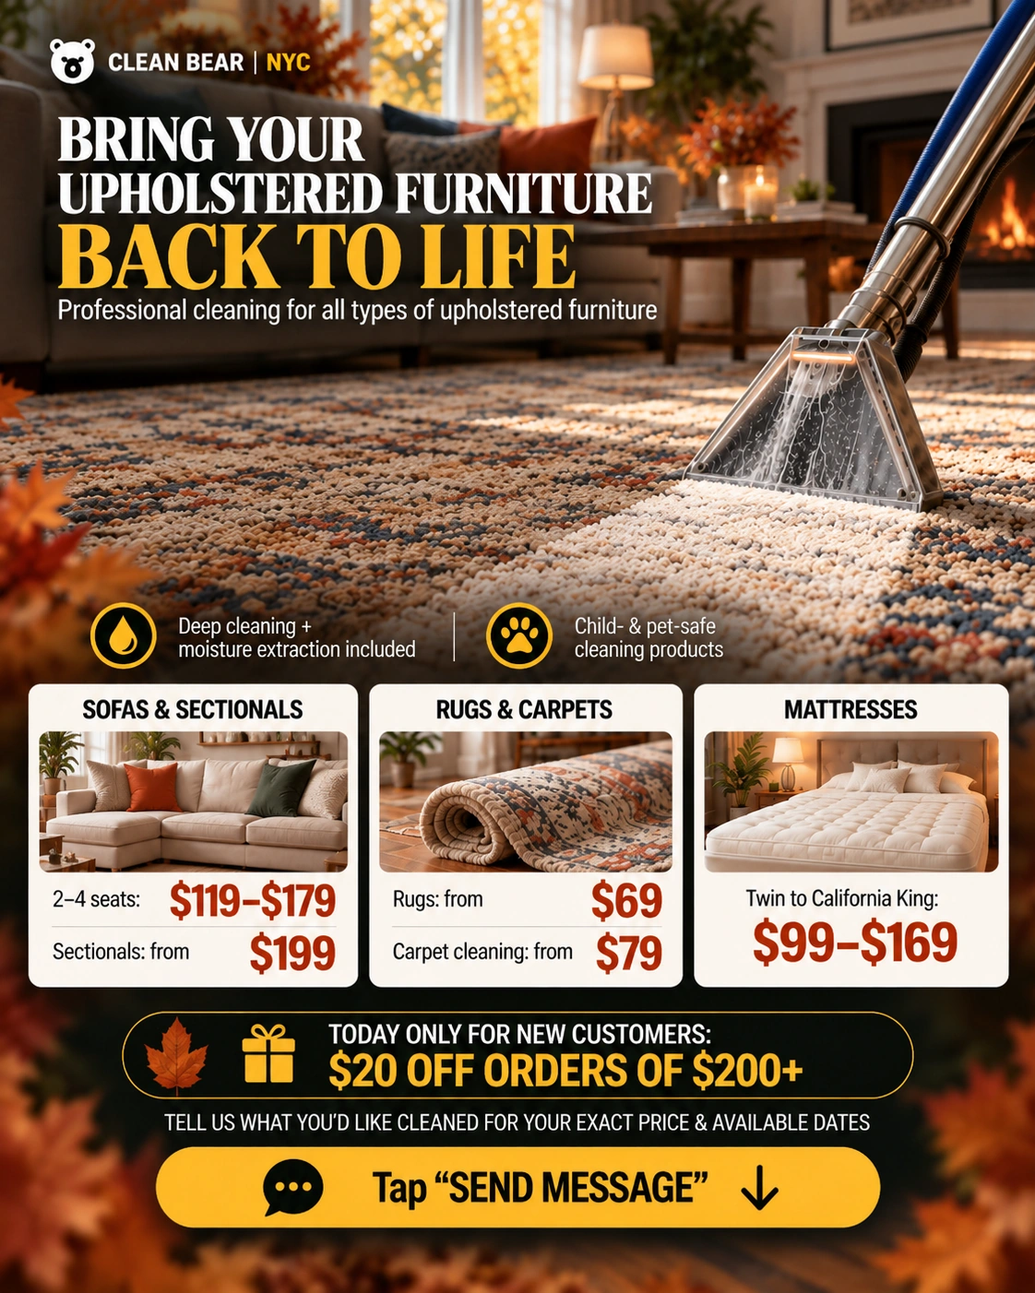
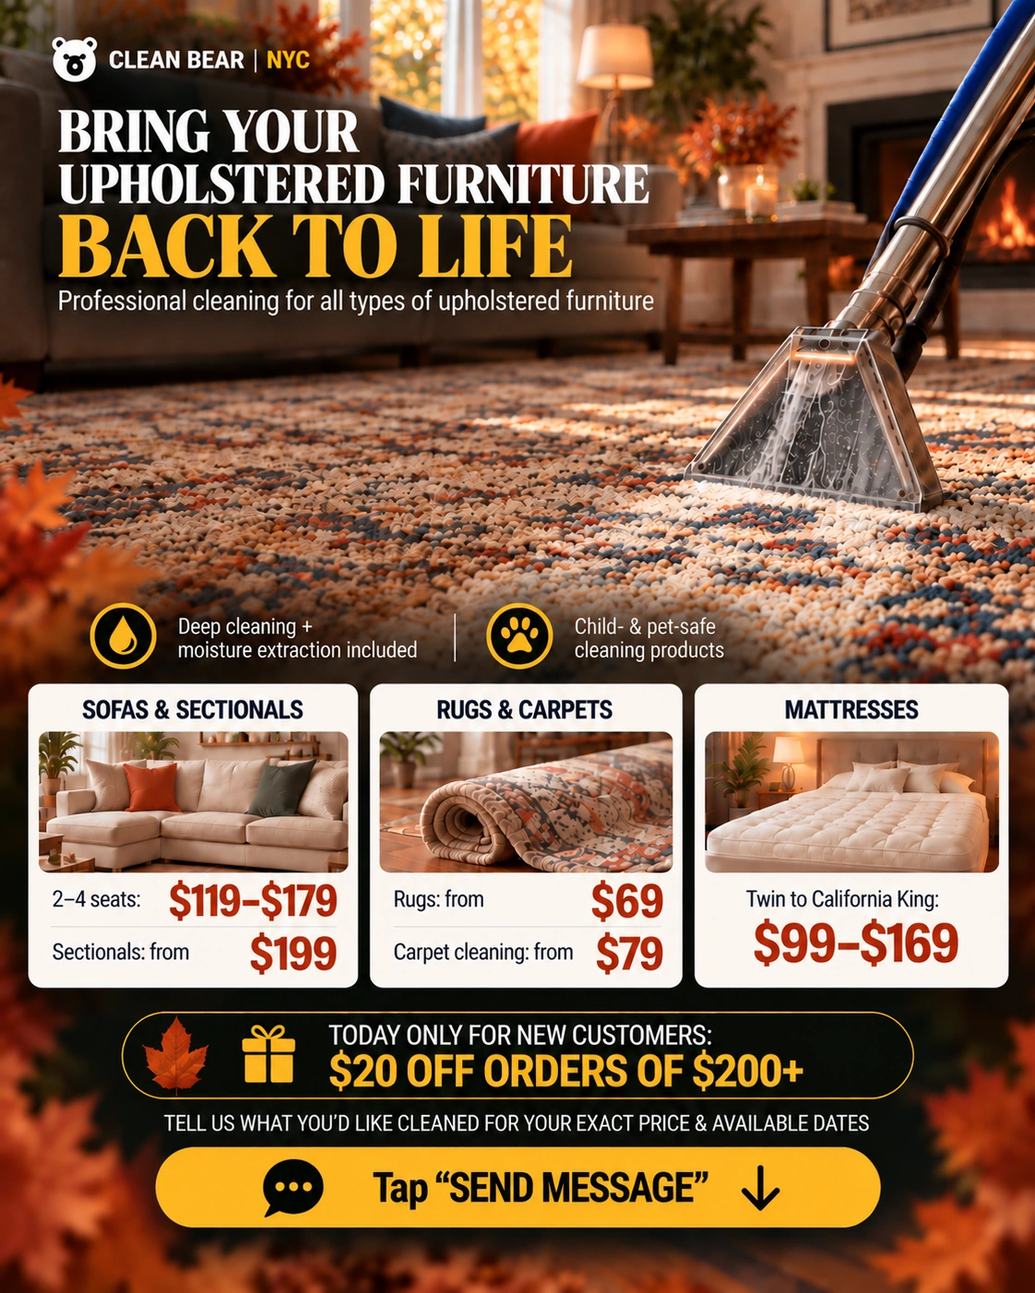
Replace upholstery creative and improve gallery browsing

diff --git a/cleaning-canada.html b/cleaning-canada.html
@@ -1228,6 +1228,10 @@ body.proofModalOpen{overflow:hidden}
 }
 .manualGallery::-webkit-scrollbar{display:none}
 .manualGallery:active{cursor:grabbing}
+.manualGallery{
+  overscroll-behavior-inline:contain;
+  touch-action:pan-x pan-y;
+}
 .manualGallery .loopTrack{
   animation:none!important;transform:none!important;will-change:auto!important
 }
@@ -1264,7 +1268,7 @@ body.proofModalOpen{overflow:hidden}
   object-fit:contain;border-radius:20px;box-shadow:0 20px 70px rgba(0,0,0,.3)
 }
 .galleryLightboxReview{
-  width:min(620px,78vw);aspect-ratio:280/364;
+  width:min(700px,82vw);aspect-ratio:280/364;
   background-image:url("assets/site/reviews-sprite.webp");
   background-size:400% 200%;background-repeat:no-repeat;
   border-radius:20px;box-shadow:0 20px 70px rgba(0,0,0,.3)
@@ -1298,7 +1302,7 @@ body.proofModalOpen{overflow:hidden}
     padding:8px;border-radius:20px
   }
   .galleryLightboxStage img{border-radius:14px}
-  .galleryLightboxReview{width:min(78vw,430px);border-radius:14px}
+  .galleryLightboxReview{width:min(86vw,500px);border-radius:14px}
   .galleryLightboxNav{width:36px;height:36px;font-size:17px}
   .galleryLightboxClose{right:10px;top:10px;width:38px;height:38px}
   .galleryLightboxCaption{font-size:8px;padding:8px 30px 2px}
@@ -1582,8 +1586,8 @@ body.proofModalOpen{overflow:hidden}
   </div>
   <div class="loopViewport creativeViewport manualGallery" data-gallery-viewport="creative">
     <div class="loopTrack creativeTrack">
-      <div class="loopGroup"><article class="creativeCard realCreative"><img src="assets/site/creatives/cleaning-toronto.webp" alt="Cleaning ad creative for Toronto" loading="lazy" decoding="async"><span class="creativeBadge">Cleaning Toronto</span></article><article class="creativeCard realCreative"><img src="assets/site/creatives/cleaning-calgary.webp" alt="Cleaning ad creative for Calgary" loading="lazy" decoding="async"><span class="creativeBadge">Cleaning Calgary</span></article><article class="creativeCard realCreative"><img src="https://cdn.openart.ai/openart-uploads/production/attachment-transfers/747fdd84dfbf1731e6a5cbb16cdd6e9aee8d5f793e122a1d1c8ec78463aa2c9d.png" alt="Upholstery cleaning ad creative for New York" loading="lazy" decoding="async"><span class="creativeBadge">Upholstery NYC</span></article><article class="creativeCard realCreative"><img src="assets/site/creatives/cleaning-recruitment.webp" alt="Cleaning recruitment ad creative" loading="lazy" decoding="async"><span class="creativeBadge">Cleaning Recruitment</span></article><article class="creativeCard realCreative"><img src="assets/site/creatives/plumbing-toronto.webp" alt="Plumbing ad creative for Toronto" loading="lazy" decoding="async"><span class="creativeBadge">Plumbing Toronto</span></article><article class="creativeCard realCreative"><img src="assets/site/creatives/hair-care-toronto.webp" alt="Hair care ad creative for Toronto" loading="lazy" decoding="async"><span class="creativeBadge">Hair Care Toronto</span></article><article class="creativeCard realCreative"><img src="assets/site/creatives/hair-extensions.webp" alt="Hair extensions ad creative" loading="lazy" decoding="async"><span class="creativeBadge">Hair Extensions</span></article><article class="creativeCard realCreative"><img src="assets/site/creatives/music-school.webp" alt="Online music school ad creative" loading="lazy" decoding="async"><span class="creativeBadge">Music School</span></article><article class="creativeCard realCreative"><img src="assets/site/creatives/aesthetic-clinic.webp" alt="Aesthetic clinic ad creative" loading="lazy" decoding="async"><span class="creativeBadge">Aesthetic Clinic</span></article><article class="creativeCard realCreative"><img src="assets/site/creatives/moving-berlin.webp" alt="Moving company ad creative for Berlin" loading="lazy" decoding="async"><span class="creativeBadge">Moving Berlin</span></article></div>
-      <div class="loopGroup" aria-hidden="true"><article class="creativeCard realCreative"><img src="assets/site/creatives/cleaning-toronto.webp" alt="Cleaning ad creative for Toronto" loading="lazy" decoding="async"><span class="creativeBadge">Cleaning Toronto</span></article><article class="creativeCard realCreative"><img src="assets/site/creatives/cleaning-calgary.webp" alt="Cleaning ad creative for Calgary" loading="lazy" decoding="async"><span class="creativeBadge">Cleaning Calgary</span></article><article class="creativeCard realCreative"><img src="https://cdn.openart.ai/openart-uploads/production/attachment-transfers/747fdd84dfbf1731e6a5cbb16cdd6e9aee8d5f793e122a1d1c8ec78463aa2c9d.png" alt="Upholstery cleaning ad creative for New York" loading="lazy" decoding="async"><span class="creativeBadge">Upholstery NYC</span></article><article class="creativeCard realCreative"><img src="assets/site/creatives/cleaning-recruitment.webp" alt="Cleaning recruitment ad creative" loading="lazy" decoding="async"><span class="creativeBadge">Cleaning Recruitment</span></article><article class="creativeCard realCreative"><img src="assets/site/creatives/plumbing-toronto.webp" alt="Plumbing ad creative for Toronto" loading="lazy" decoding="async"><span class="creativeBadge">Plumbing Toronto</span></article><article class="creativeCard realCreative"><img src="assets/site/creatives/hair-care-toronto.webp" alt="Hair care ad creative for Toronto" loading="lazy" decoding="async"><span class="creativeBadge">Hair Care Toronto</span></article><article class="creativeCard realCreative"><img src="assets/site/creatives/hair-extensions.webp" alt="Hair extensions ad creative" loading="lazy" decoding="async"><span class="creativeBadge">Hair Extensions</span></article><article class="creativeCard realCreative"><img src="assets/site/creatives/music-school.webp" alt="Online music school ad creative" loading="lazy" decoding="async"><span class="creativeBadge">Music School</span></article><article class="creativeCard realCreative"><img src="assets/site/creatives/aesthetic-clinic.webp" alt="Aesthetic clinic ad creative" loading="lazy" decoding="async"><span class="creativeBadge">Aesthetic Clinic</span></article><article class="creativeCard realCreative"><img src="assets/site/creatives/moving-berlin.webp" alt="Moving company ad creative for Berlin" loading="lazy" decoding="async"><span class="creativeBadge">Moving Berlin</span></article></div>
+      <div class="loopGroup"><article class="creativeCard realCreative"><img src="assets/site/creatives/cleaning-toronto.webp" alt="Cleaning ad creative for Toronto" loading="lazy" decoding="async"><span class="creativeBadge">Cleaning Toronto</span></article><article class="creativeCard realCreative"><img src="assets/site/creatives/cleaning-calgary.webp" alt="Cleaning ad creative for Calgary" loading="lazy" decoding="async"><span class="creativeBadge">Cleaning Calgary</span></article><article class="creativeCard realCreative"><img src="assets/site/creatives/upholstery-nyc.webp" alt="Upholstery cleaning ad creative for New York" loading="lazy" decoding="async"><span class="creativeBadge">Upholstery NYC</span></article><article class="creativeCard realCreative"><img src="assets/site/creatives/cleaning-recruitment.webp" alt="Cleaning recruitment ad creative" loading="lazy" decoding="async"><span class="creativeBadge">Cleaning Recruitment</span></article><article class="creativeCard realCreative"><img src="assets/site/creatives/plumbing-toronto.webp" alt="Plumbing ad creative for Toronto" loading="lazy" decoding="async"><span class="creativeBadge">Plumbing Toronto</span></article><article class="creativeCard realCreative"><img src="assets/site/creatives/hair-care-toronto.webp" alt="Hair care ad creative for Toronto" loading="lazy" decoding="async"><span class="creativeBadge">Hair Care Toronto</span></article><article class="creativeCard realCreative"><img src="assets/site/creatives/hair-extensions.webp" alt="Hair extensions ad creative" loading="lazy" decoding="async"><span class="creativeBadge">Hair Extensions</span></article><article class="creativeCard realCreative"><img src="assets/site/creatives/music-school.webp" alt="Online music school ad creative" loading="lazy" decoding="async"><span class="creativeBadge">Music School</span></article><article class="creativeCard realCreative"><img src="assets/site/creatives/aesthetic-clinic.webp" alt="Aesthetic clinic ad creative" loading="lazy" decoding="async"><span class="creativeBadge">Aesthetic Clinic</span></article><article class="creativeCard realCreative"><img src="assets/site/creatives/moving-berlin.webp" alt="Moving company ad creative for Berlin" loading="lazy" decoding="async"><span class="creativeBadge">Moving Berlin</span></article></div>
+      <div class="loopGroup" aria-hidden="true"><article class="creativeCard realCreative"><img src="assets/site/creatives/cleaning-toronto.webp" alt="Cleaning ad creative for Toronto" loading="lazy" decoding="async"><span class="creativeBadge">Cleaning Toronto</span></article><article class="creativeCard realCreative"><img src="assets/site/creatives/cleaning-calgary.webp" alt="Cleaning ad creative for Calgary" loading="lazy" decoding="async"><span class="creativeBadge">Cleaning Calgary</span></article><article class="creativeCard realCreative"><img src="assets/site/creatives/upholstery-nyc.webp" alt="Upholstery cleaning ad creative for New York" loading="lazy" decoding="async"><span class="creativeBadge">Upholstery NYC</span></article><article class="creativeCard realCreative"><img src="assets/site/creatives/cleaning-recruitment.webp" alt="Cleaning recruitment ad creative" loading="lazy" decoding="async"><span class="creativeBadge">Cleaning Recruitment</span></article><article class="creativeCard realCreative"><img src="assets/site/creatives/plumbing-toronto.webp" alt="Plumbing ad creative for Toronto" loading="lazy" decoding="async"><span class="creativeBadge">Plumbing Toronto</span></article><article class="creativeCard realCreative"><img src="assets/site/creatives/hair-care-toronto.webp" alt="Hair care ad creative for Toronto" loading="lazy" decoding="async"><span class="creativeBadge">Hair Care Toronto</span></article><article class="creativeCard realCreative"><img src="assets/site/creatives/hair-extensions.webp" alt="Hair extensions ad creative" loading="lazy" decoding="async"><span class="creativeBadge">Hair Extensions</span></article><article class="creativeCard realCreative"><img src="assets/site/creatives/music-school.webp" alt="Online music school ad creative" loading="lazy" decoding="async"><span class="creativeBadge">Music School</span></article><article class="creativeCard realCreative"><img src="assets/site/creatives/aesthetic-clinic.webp" alt="Aesthetic clinic ad creative" loading="lazy" decoding="async"><span class="creativeBadge">Aesthetic Clinic</span></article><article class="creativeCard realCreative"><img src="assets/site/creatives/moving-berlin.webp" alt="Moving company ad creative for Berlin" loading="lazy" decoding="async"><span class="creativeBadge">Moving Berlin</span></article></div>
     </div>
   </div>
 </section>
@@ -1952,6 +1956,61 @@ function stepGallery(delta){
   activeGalleryIndex+=delta;
   renderGalleryLightbox();
 }
+document.querySelectorAll('.manualGallery').forEach((viewport)=>{
+  let dragging=false;
+  let moved=false;
+  let startX=0;
+  let startScroll=0;
+
+  viewport.addEventListener('pointerdown',(event)=>{
+    if(event.pointerType!=='mouse'||event.button!==0)return;
+    dragging=true;
+    moved=false;
+    startX=event.clientX;
+    startScroll=viewport.scrollLeft;
+    viewport.setPointerCapture?.(event.pointerId);
+  });
+
+  viewport.addEventListener('pointermove',(event)=>{
+    if(!dragging)return;
+    const dx=event.clientX-startX;
+    if(Math.abs(dx)>5)moved=true;
+    viewport.scrollLeft=startScroll-dx;
+  });
+
+  const stopDrag=()=>{dragging=false};
+  viewport.addEventListener('pointerup',stopDrag);
+  viewport.addEventListener('pointercancel',stopDrag);
+  viewport.addEventListener('click',(event)=>{
+    if(!moved)return;
+    event.preventDefault();
+    event.stopPropagation();
+    moved=false;
+  },true);
+});
+
+let galleryTouchStartX=0;
+let galleryTouchStartY=0;
+const galleryStage=document.querySelector('.galleryLightboxStage');
+if(galleryStage){
+  galleryStage.addEventListener('touchstart',(event)=>{
+    const touch=event.changedTouches?.[0];
+    if(!touch)return;
+    galleryTouchStartX=touch.clientX;
+    galleryTouchStartY=touch.clientY;
+  },{passive:true});
+
+  galleryStage.addEventListener('touchend',(event)=>{
+    const touch=event.changedTouches?.[0];
+    if(!touch)return;
+    const dx=touch.clientX-galleryTouchStartX;
+    const dy=touch.clientY-galleryTouchStartY;
+    if(Math.abs(dx)>52&&Math.abs(dx)>Math.abs(dy)*1.25){
+      stepGallery(dx<0?1:-1);
+    }
+  },{passive:true});
+}
+
 document.querySelectorAll('[data-gallery-scroll]').forEach((button)=>{
   button.addEventListener('click',()=>{
     const type=button.dataset.galleryScroll;

diff --git a/index.html b/index.html
@@ -1228,6 +1228,10 @@ body.proofModalOpen{overflow:hidden}
 }
 .manualGallery::-webkit-scrollbar{display:none}
 .manualGallery:active{cursor:grabbing}
+.manualGallery{
+  overscroll-behavior-inline:contain;
+  touch-action:pan-x pan-y;
+}
 .manualGallery .loopTrack{
   animation:none!important;transform:none!important;will-change:auto!important
 }
@@ -1264,7 +1268,7 @@ body.proofModalOpen{overflow:hidden}
   object-fit:contain;border-radius:20px;box-shadow:0 20px 70px rgba(0,0,0,.3)
 }
 .galleryLightboxReview{
-  width:min(620px,78vw);aspect-ratio:280/364;
+  width:min(700px,82vw);aspect-ratio:280/364;
   background-image:url("assets/site/reviews-sprite.webp");
   background-size:400% 200%;background-repeat:no-repeat;
   border-radius:20px;box-shadow:0 20px 70px rgba(0,0,0,.3)
@@ -1298,7 +1302,7 @@ body.proofModalOpen{overflow:hidden}
     padding:8px;border-radius:20px
   }
   .galleryLightboxStage img{border-radius:14px}
-  .galleryLightboxReview{width:min(78vw,430px);border-radius:14px}
+  .galleryLightboxReview{width:min(86vw,500px);border-radius:14px}
   .galleryLightboxNav{width:36px;height:36px;font-size:17px}
   .galleryLightboxClose{right:10px;top:10px;width:38px;height:38px}
   .galleryLightboxCaption{font-size:8px;padding:8px 30px 2px}
@@ -1582,8 +1586,8 @@ body.proofModalOpen{overflow:hidden}
   </div>
   <div class="loopViewport creativeViewport manualGallery" data-gallery-viewport="creative">
     <div class="loopTrack creativeTrack">
-      <div class="loopGroup"><article class="creativeCard realCreative"><img src="assets/site/creatives/cleaning-toronto.webp" alt="Cleaning ad creative for Toronto" loading="lazy" decoding="async"><span class="creativeBadge">Cleaning Toronto</span></article><article class="creativeCard realCreative"><img src="assets/site/creatives/cleaning-calgary.webp" alt="Cleaning ad creative for Calgary" loading="lazy" decoding="async"><span class="creativeBadge">Cleaning Calgary</span></article><article class="creativeCard realCreative"><img src="https://cdn.openart.ai/openart-uploads/production/attachment-transfers/747fdd84dfbf1731e6a5cbb16cdd6e9aee8d5f793e122a1d1c8ec78463aa2c9d.png" alt="Upholstery cleaning ad creative for New York" loading="lazy" decoding="async"><span class="creativeBadge">Upholstery NYC</span></article><article class="creativeCard realCreative"><img src="assets/site/creatives/cleaning-recruitment.webp" alt="Cleaning recruitment ad creative" loading="lazy" decoding="async"><span class="creativeBadge">Cleaning Recruitment</span></article><article class="creativeCard realCreative"><img src="assets/site/creatives/plumbing-toronto.webp" alt="Plumbing ad creative for Toronto" loading="lazy" decoding="async"><span class="creativeBadge">Plumbing Toronto</span></article><article class="creativeCard realCreative"><img src="assets/site/creatives/hair-care-toronto.webp" alt="Hair care ad creative for Toronto" loading="lazy" decoding="async"><span class="creativeBadge">Hair Care Toronto</span></article><article class="creativeCard realCreative"><img src="assets/site/creatives/hair-extensions.webp" alt="Hair extensions ad creative" loading="lazy" decoding="async"><span class="creativeBadge">Hair Extensions</span></article><article class="creativeCard realCreative"><img src="assets/site/creatives/music-school.webp" alt="Online music school ad creative" loading="lazy" decoding="async"><span class="creativeBadge">Music School</span></article><article class="creativeCard realCreative"><img src="assets/site/creatives/aesthetic-clinic.webp" alt="Aesthetic clinic ad creative" loading="lazy" decoding="async"><span class="creativeBadge">Aesthetic Clinic</span></article><article class="creativeCard realCreative"><img src="assets/site/creatives/moving-berlin.webp" alt="Moving company ad creative for Berlin" loading="lazy" decoding="async"><span class="creativeBadge">Moving Berlin</span></article></div>
-      <div class="loopGroup" aria-hidden="true"><article class="creativeCard realCreative"><img src="assets/site/creatives/cleaning-toronto.webp" alt="Cleaning ad creative for Toronto" loading="lazy" decoding="async"><span class="creativeBadge">Cleaning Toronto</span></article><article class="creativeCard realCreative"><img src="assets/site/creatives/cleaning-calgary.webp" alt="Cleaning ad creative for Calgary" loading="lazy" decoding="async"><span class="creativeBadge">Cleaning Calgary</span></article><article class="creativeCard realCreative"><img src="https://cdn.openart.ai/openart-uploads/production/attachment-transfers/747fdd84dfbf1731e6a5cbb16cdd6e9aee8d5f793e122a1d1c8ec78463aa2c9d.png" alt="Upholstery cleaning ad creative for New York" loading="lazy" decoding="async"><span class="creativeBadge">Upholstery NYC</span></article><article class="creativeCard realCreative"><img src="assets/site/creatives/cleaning-recruitment.webp" alt="Cleaning recruitment ad creative" loading="lazy" decoding="async"><span class="creativeBadge">Cleaning Recruitment</span></article><article class="creativeCard realCreative"><img src="assets/site/creatives/plumbing-toronto.webp" alt="Plumbing ad creative for Toronto" loading="lazy" decoding="async"><span class="creativeBadge">Plumbing Toronto</span></article><article class="creativeCard realCreative"><img src="assets/site/creatives/hair-care-toronto.webp" alt="Hair care ad creative for Toronto" loading="lazy" decoding="async"><span class="creativeBadge">Hair Care Toronto</span></article><article class="creativeCard realCreative"><img src="assets/site/creatives/hair-extensions.webp" alt="Hair extensions ad creative" loading="lazy" decoding="async"><span class="creativeBadge">Hair Extensions</span></article><article class="creativeCard realCreative"><img src="assets/site/creatives/music-school.webp" alt="Online music school ad creative" loading="lazy" decoding="async"><span class="creativeBadge">Music School</span></article><article class="creativeCard realCreative"><img src="assets/site/creatives/aesthetic-clinic.webp" alt="Aesthetic clinic ad creative" loading="lazy" decoding="async"><span class="creativeBadge">Aesthetic Clinic</span></article><article class="creativeCard realCreative"><img src="assets/site/creatives/moving-berlin.webp" alt="Moving company ad creative for Berlin" loading="lazy" decoding="async"><span class="creativeBadge">Moving Berlin</span></article></div>
+      <div class="loopGroup"><article class="creativeCard realCreative"><img src="assets/site/creatives/cleaning-toronto.webp" alt="Cleaning ad creative for Toronto" loading="lazy" decoding="async"><span class="creativeBadge">Cleaning Toronto</span></article><article class="creativeCard realCreative"><img src="assets/site/creatives/cleaning-calgary.webp" alt="Cleaning ad creative for Calgary" loading="lazy" decoding="async"><span class="creativeBadge">Cleaning Calgary</span></article><article class="creativeCard realCreative"><img src="assets/site/creatives/upholstery-nyc.webp" alt="Upholstery cleaning ad creative for New York" loading="lazy" decoding="async"><span class="creativeBadge">Upholstery NYC</span></article><article class="creativeCard realCreative"><img src="assets/site/creatives/cleaning-recruitment.webp" alt="Cleaning recruitment ad creative" loading="lazy" decoding="async"><span class="creativeBadge">Cleaning Recruitment</span></article><article class="creativeCard realCreative"><img src="assets/site/creatives/plumbing-toronto.webp" alt="Plumbing ad creative for Toronto" loading="lazy" decoding="async"><span class="creativeBadge">Plumbing Toronto</span></article><article class="creativeCard realCreative"><img src="assets/site/creatives/hair-care-toronto.webp" alt="Hair care ad creative for Toronto" loading="lazy" decoding="async"><span class="creativeBadge">Hair Care Toronto</span></article><article class="creativeCard realCreative"><img src="assets/site/creatives/hair-extensions.webp" alt="Hair extensions ad creative" loading="lazy" decoding="async"><span class="creativeBadge">Hair Extensions</span></article><article class="creativeCard realCreative"><img src="assets/site/creatives/music-school.webp" alt="Online music school ad creative" loading="lazy" decoding="async"><span class="creativeBadge">Music School</span></article><article class="creativeCard realCreative"><img src="assets/site/creatives/aesthetic-clinic.webp" alt="Aesthetic clinic ad creative" loading="lazy" decoding="async"><span class="creativeBadge">Aesthetic Clinic</span></article><article class="creativeCard realCreative"><img src="assets/site/creatives/moving-berlin.webp" alt="Moving company ad creative for Berlin" loading="lazy" decoding="async"><span class="creativeBadge">Moving Berlin</span></article></div>
+      <div class="loopGroup" aria-hidden="true"><article class="creativeCard realCreative"><img src="assets/site/creatives/cleaning-toronto.webp" alt="Cleaning ad creative for Toronto" loading="lazy" decoding="async"><span class="creativeBadge">Cleaning Toronto</span></article><article class="creativeCard realCreative"><img src="assets/site/creatives/cleaning-calgary.webp" alt="Cleaning ad creative for Calgary" loading="lazy" decoding="async"><span class="creativeBadge">Cleaning Calgary</span></article><article class="creativeCard realCreative"><img src="assets/site/creatives/upholstery-nyc.webp" alt="Upholstery cleaning ad creative for New York" loading="lazy" decoding="async"><span class="creativeBadge">Upholstery NYC</span></article><article class="creativeCard realCreative"><img src="assets/site/creatives/cleaning-recruitment.webp" alt="Cleaning recruitment ad creative" loading="lazy" decoding="async"><span class="creativeBadge">Cleaning Recruitment</span></article><article class="creativeCard realCreative"><img src="assets/site/creatives/plumbing-toronto.webp" alt="Plumbing ad creative for Toronto" loading="lazy" decoding="async"><span class="creativeBadge">Plumbing Toronto</span></article><article class="creativeCard realCreative"><img src="assets/site/creatives/hair-care-toronto.webp" alt="Hair care ad creative for Toronto" loading="lazy" decoding="async"><span class="creativeBadge">Hair Care Toronto</span></article><article class="creativeCard realCreative"><img src="assets/site/creatives/hair-extensions.webp" alt="Hair extensions ad creative" loading="lazy" decoding="async"><span class="creativeBadge">Hair Extensions</span></article><article class="creativeCard realCreative"><img src="assets/site/creatives/music-school.webp" alt="Online music school ad creative" loading="lazy" decoding="async"><span class="creativeBadge">Music School</span></article><article class="creativeCard realCreative"><img src="assets/site/creatives/aesthetic-clinic.webp" alt="Aesthetic clinic ad creative" loading="lazy" decoding="async"><span class="creativeBadge">Aesthetic Clinic</span></article><article class="creativeCard realCreative"><img src="assets/site/creatives/moving-berlin.webp" alt="Moving company ad creative for Berlin" loading="lazy" decoding="async"><span class="creativeBadge">Moving Berlin</span></article></div>
     </div>
   </div>
 </section>
@@ -1952,6 +1956,61 @@ function stepGallery(delta){
   activeGalleryIndex+=delta;
   renderGalleryLightbox();
 }
+document.querySelectorAll('.manualGallery').forEach((viewport)=>{
+  let dragging=false;
+  let moved=false;
+  let startX=0;
+  let startScroll=0;
+
+  viewport.addEventListener('pointerdown',(event)=>{
+    if(event.pointerType!=='mouse'||event.button!==0)return;
+    dragging=true;
+    moved=false;
+    startX=event.clientX;
+    startScroll=viewport.scrollLeft;
+    viewport.setPointerCapture?.(event.pointerId);
+  });
+
+  viewport.addEventListener('pointermove',(event)=>{
+    if(!dragging)return;
+    const dx=event.clientX-startX;
+    if(Math.abs(dx)>5)moved=true;
+    viewport.scrollLeft=startScroll-dx;
+  });
+
+  const stopDrag=()=>{dragging=false};
+  viewport.addEventListener('pointerup',stopDrag);
+  viewport.addEventListener('pointercancel',stopDrag);
+  viewport.addEventListener('click',(event)=>{
+    if(!moved)return;
+    event.preventDefault();
+    event.stopPropagation();
+    moved=false;
+  },true);
+});
+
+let galleryTouchStartX=0;
+let galleryTouchStartY=0;
+const galleryStage=document.querySelector('.galleryLightboxStage');
+if(galleryStage){
+  galleryStage.addEventListener('touchstart',(event)=>{
+    const touch=event.changedTouches?.[0];
+    if(!touch)return;
+    galleryTouchStartX=touch.clientX;
+    galleryTouchStartY=touch.clientY;
+  },{passive:true});
+
+  galleryStage.addEventListener('touchend',(event)=>{
+    const touch=event.changedTouches?.[0];
+    if(!touch)return;
+    const dx=touch.clientX-galleryTouchStartX;
+    const dy=touch.clientY-galleryTouchStartY;
+    if(Math.abs(dx)>52&&Math.abs(dx)>Math.abs(dy)*1.25){
+      stepGallery(dx<0?1:-1);
+    }
+  },{passive:true});
+}
+
 document.querySelectorAll('[data-gallery-scroll]').forEach((button)=>{
   button.addEventListener('click',()=>{
     const type=button.dataset.galleryScroll;
